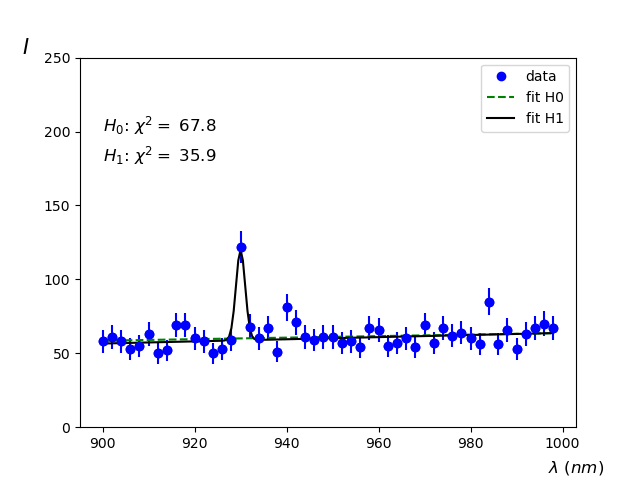
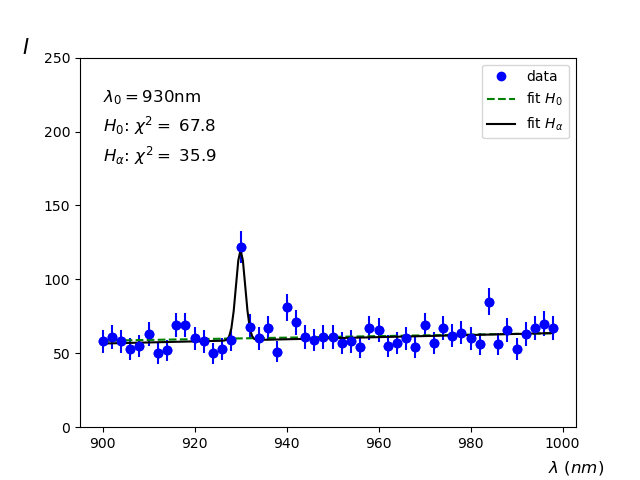
verbeterde plotjes

Changed region(s): [[0.75, 0.1562, 0.875, 0.2812], [0.1562, 0.1875, 0.3125, 0.2188], [0.3125, 0.25, 0.3438, 0.2812]]

diff --git a/40 Module 4/02 Hypothese toetsen 2/Theorie.md b/40 Module 4/02 Hypothese toetsen 2/Theorie.md
@@ -30,9 +30,9 @@ Alleen als aan de bovengenoemde voorwaarde wordt voldaan dan wordt de $$\Delta \
 > **Voorbeeld Wald test** Stel dat we een chemisch element willen traceren en gebruik maken van spectroscopie. Als het chemische element $$X$$ aanwezig is dan verwachten we een verhoogde intensiteit te zien bij de emissielijn van het specifieke element. We verwachten ook een achtergrondspectrum te zien. Dat wil zeggen we meten over alle golflengtes normaal gesproken een bepaalde intensiteit, ook zonder dat het chemische element aanwezig is. We kunnen nu de twee functies opstellen. Stel dat de achtergrond een lineaire functie volgt  
 > $$ I_0(\lambda;a,b) = a+ b\cdot \lambda$$  
 > Waarbij $$\lambda$$ de golflengte is.  
-> De emissielijn van $$X$$, verwachten we rond 930nm en de resolutie van de spectroscoop is 1nm. De intensiteit van de emissielijn wordt dan beschreven door: <br>
+> De emissielijn van $$X$$, verwachten we rond 930 nm en de resolutie van de spectroscoop is 1 nm. De intensiteit van de emissielijn wordt dan beschreven door: <br>
 > 
-> $$ I_\alpha(\lambda;J,\mu=930nm,\sigma=1nm) = J \cdot \frac{1}{\sigma \sqrt{2 \pi}} e^{-\frac{1}{2}\left(\frac{\lambda - \mu}{\sigma}\right)^2}$$<br>
+> $$ I_\alpha(\lambda;J,\lamda_0=930nm,\sigma=1nm) = J \cdot \frac{1}{\sigma \sqrt{2 \pi}} e^{-\frac{1}{2}\left(\frac{\lambda - \lambda_0}{\sigma}\right)^2}$$<br>
 > 
 > We zien dat in principe er geen vrije parameters zijn in deze fit, behalve een schaalfactor $$J$$ die de hoeveelheid intensiteit van het signaal schaalt.  
 > 
@@ -47,7 +47,7 @@ Alleen als aan de bovengenoemde voorwaarde wordt voldaan dan wordt de $$\Delta \
 > We gaan even naar de data kijken. We hebben het spectrum waargenomen dat hier<!--FIG in figuur \ref{fig:Spectrum}--> wordt getoond.  
 > ![Het waargenomen spectrum met de gefitte lijn.](Spectrum.png){:width="60%"}
 > 
-> In de grafiek zien we een duidelijk piekje rond 930nm, precies waar we het signaal van het chemische element $$X$$ door $$H_\alpha$$ voorspeld is. De fit resultaten van beide hypotheses zijn in het plaatje weergegeven. Met het verschil in $$\chi^2$$ kunnen we nu een p-waarde uitrekenen. In dit geval is die gelijk aan $$1.6\cdot 10^{-8}$$. Het is dus uitermate waarschijnlijk dat we het chemische element $$X$$ hebben aangetoond in de spectraal analyse.
+> In de grafiek zien we een duidelijk piekje rond 930 nm, precies waar we het signaal van het chemische element $$X$$ door $$H_\alpha$$ voorspeld is. De fit resultaten van beide hypotheses zijn in het plaatje weergegeven. Met het verschil in $$\chi^2$$ kunnen we nu een p-waarde uitrekenen. In dit geval is die gelijk aan $$1.6\cdot 10^{-8}$$. Het is dus uitermate waarschijnlijk dat we het chemische element $$X$$ hebben aangetoond in de spectraal analyse.
 
 De berekende p-waarde wordt vaak weer omgerekend in een $$z$$-score. De enige reden waarom dit gedaan wordt is omdat de waardes van de $$z$$-score over het algemeen wat makkelijker liggen. Het is zeg maar een handigere manier om een kans uit te drukken. In het voorbeeld hierboven komt de kans van $$1.6\cdot 10^{-8}$$ overeen met een $$z$$-score van 5.5. Ga maar na, het laatste spreekt een stuk makkelijker uit. 
 
@@ -57,18 +57,18 @@ In het voorbeeld hierboven hebben we een nulhypothese (waarbij alleen een achter
 
 ## p-Waarde scan
 
-In het voorbeeld hierboven is er een duidelijk stelling over de golflengte van de emissielijn van het element $$X$$, namelijk $$\mu= 930$$ nm. Stel nu dat dat niet zo is, dan zouden we een extra vrije parameter hebben in de functie die $$H_\alpha$$ beschrijft. In dat geval kunnen we de Wald methode niet toepassen. Wat we in dat geval wèl kunnen doen is een zogeheten p-waarde scan uitvoeren. We fixeren dan telkens de waarde van de golflengte van de emissielijn en berekenen voor elk van deze golflengtes de p-waarde. Als er een emissielijn aanwezig is die sterk genoeg is zullen we op die locatie een dip zien in de p-waarde. 
+In het voorbeeld hierboven is er een duidelijk stelling over de golflengte van de emissielijn van het element $$X$$, namelijk $$\lambda_0= 930$$ nm. Stel nu dat dat niet zo is, dan zouden we een extra vrije parameter hebben in de functie die $$H_\alpha$$ beschrijft. In dat geval kunnen we de Wald methode niet toepassen. Wat we in dat geval wèl kunnen doen is een zogeheten p-waarde scan uitvoeren. We fixeren dan telkens de waarde van de golflengte van de emissielijn en berekenen voor elk van deze golflengtes de p-waarde. Als er een emissielijn aanwezig is die sterk genoeg is zullen we op die locatie een dip zien in de p-waarde. 
 
 We moeten ook bij deze toets van te voren bepalen bij welke p-waarde we de nulhypothese verwerpen.
 
 
 > **Voorbeeld p-waarde scan** Hieronder zie je de spectraalfit waarbij we het
 > spectrum hebben gefit met een centrale waarde van de spectraallijn op
-> 932 nm, net rechts van het piekje op 930 nm. Zoals je in de figuur<!--FIG in figuur \ref{fig:Spectrum932}--> ziet is de waarde voor $$J$$ die de intensiteit van een eventuele emissielijn op 932nm beschrijft, erg klein: De gefitte functie voor $$H_\alpha$$ wijkt nauwelijks af van de functie die de $$H_0$$ hypothese beschrijft. De berekende p-waarde zal voor deze golflengte dan ook niet heel klein zijn.  
+> 932 nm, net rechts van het piekje op 930 nm. Zoals je in de figuur<!--FIG in figuur \ref{fig:Spectrum932}--> ziet is de waarde voor $$J$$ die de intensiteit van een eventuele emissielijn op 932 nm beschrijft, erg klein: De gefitte functie voor $$H_\alpha$$ wijkt nauwelijks af van de functie die de $$H_0$$ hypothese beschrijft. De berekende p-waarde zal voor deze golflengte dan ook niet heel klein zijn.  
 > ![Het waargenomen spectrum met de gefitte lijn voor $$\lambda = 932$$ nm.](Spectrum932.png){:width="60%"}   
 > Als we alle p-waardes van de scan nu grafisch weergeven dan krijgen we het hier <!--FIG in figuur \ref{fig:Emissiescan} --> getoonde resultaat.  
 > ![De p-waarde scan van de emissiedata.](Emissiescan.png){:width="60%"}  
-> Je ziet nu dat er op een aantal plekken in het spectrum een kleine afwijking van de $$H_0$$ hypothese te zien is. Deze komen allemaal overeen met golflengtes waar op het oog een piekje zichtbaar lijkt. Op slechts 1 locatie is er een heel duidelijke afwijking zichtbaar. Precies bij 930nm. 
+> Je ziet nu dat er op een aantal plekken in het spectrum een kleine afwijking van de $$H_0$$ hypothese te zien is. Deze komen allemaal overeen met golflengtes waar op het oog een piekje zichtbaar lijkt. Op slechts 1 locatie is er een heel duidelijke afwijking zichtbaar. Precies bij 930 nm. 
 
 Eigenlijk hadden  we van tevoren ook bij deze een significantie moeten afspreken waarbij we de aanwezigheid van het chemische element kunnen aantonen. Zodra de gemeten p-waarde onder deze afgesproken significantie zakt in de p-waarde scan kunnen we claimen het element te hebben aangetoond. Als we hem weer bij een waarde van $$1 \cdot 10^{-6}$$ hadden afgesproken hadden we ook in de p-waarde scan het element $$X$$ kunnen claimen. 
 
